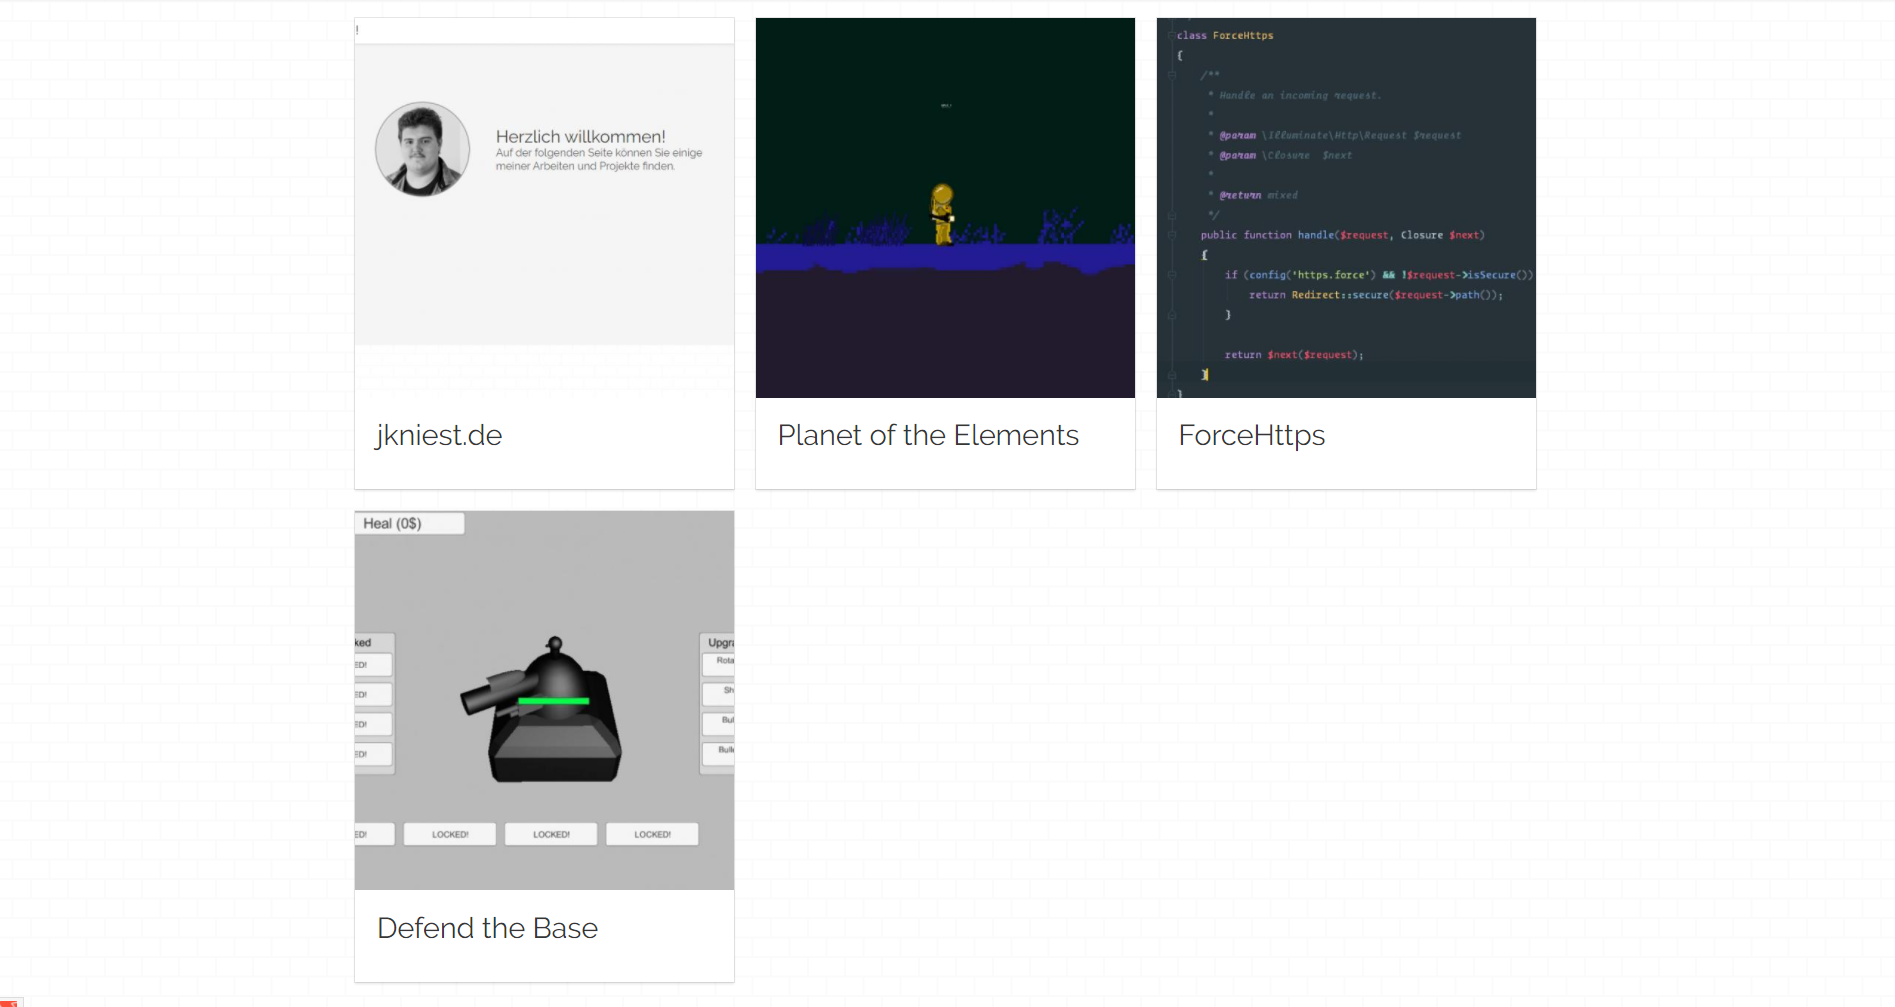
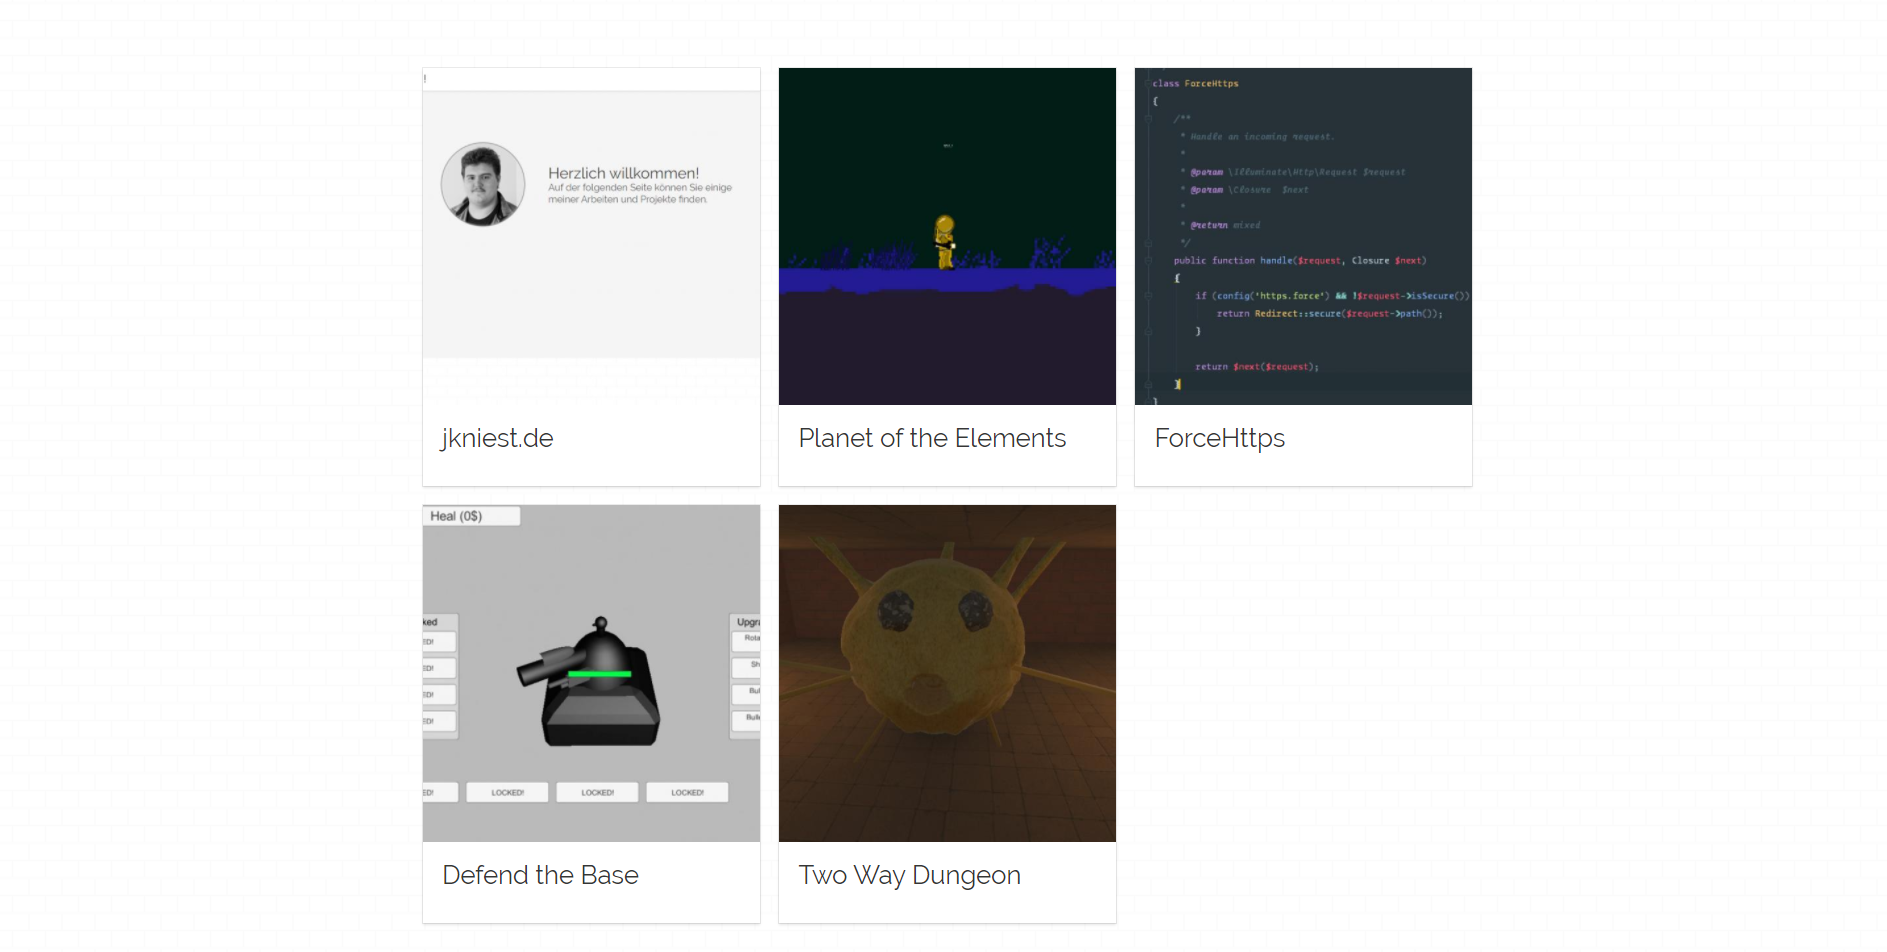
Added project 'Two Way Dungeon'

diff --git a/resources/views/projects/partials/de/TwoWayDungeon.blade.php b/resources/views/projects/partials/de/TwoWayDungeon.blade.php
@@ -1,0 +1,104 @@
+@php
+    /**
+     * Copyright (C) 2017 Jordan Kniest
+     *
+     * This program is free software: you can redistribute it and/or modify
+     * it under the terms of the GNU Affero General Public License as published by
+     * the Free Software Foundation, either version 3 of the License, or
+     * (at your option) any later version.
+     *
+     * This program is distributed in the hope that it will be useful,
+     * but WITHOUT ANY WARRANTY; without even the implied warranty of
+     * MERCHANTABILITY or FITNESS FOR A PARTICULAR PURPOSE.  See the
+     * GNU Affero General Public License for more details.
+     *
+     * You should have received a copy of the GNU Affero General Public License
+     * along with this program.  If not, see <http://www.gnu.org/licenses/>.
+     */
+@endphp
+
+
+<section>
+    <p>
+        Das Spiel "Two Way Dungeeon" wurde für die Ludum-Dare Competition entwickelt. Ziel, bei dem Ludum-Dare, ist es
+        ein Videospiel innerhalb von 48 Stunden zu erstellen, nach einem bestimmten Thema. Das Thema wird am Start der
+        48 Stunden veröffentlicht. Diesesmal war es: "Two button controls".
+    </p>
+    <br>
+    <p>
+        Die Welt, in der dieses Spiel spielt, wird von einem Kartoffel-Monster-König unterworfen. Der Spieler, ein
+        Soldat, hat sich das Ziel gesetzt, den Kartoffel-Monster-König zu besiegen und wieder Frieden in die Welt
+        zu bringen!
+    </p>
+</section>
+
+<hr class="m3t">
+
+<section class="m3t">
+    <h3 class="title is-3">Funktionen</h3>
+
+    <section class="m2t">
+
+        <h4 class="title is-4">Steuerung</h4>
+
+        <p>
+            Der Spieler kann das komplette Spiel mit gerade mal zwei Tasten bestehen. Die Tasten "Q" und "E". Mit
+            diesen Tasten kann der Spieler angreifen, ausweichen und sich fortbewegen.
+        </p>
+
+    </section>
+
+    <section class="m3t">
+
+        <h4 class="title is-4">Gegner</h4>
+
+        <p>
+            Auf dem Weg zum Kartoffel-Monster-Könfig begegnet man seinen Schergen, den normalen Kartoffel-Monstern.
+            Diese müssen besiegt werden, bevor man zum König vorschreiten kann.
+        </p>
+
+    </section>
+
+    <section class="m3t">
+
+        <h4 class="title is-4">Boss-Kampf</h4>
+
+        <p>
+            Am Ende des Spiels muss ein Boss besiegt werden. Dieser schießt Kartoffeln auf euch, denen ihr ausweichen
+            müsst.
+        </p>
+
+    </section>
+
+</section>
+
+<hr class="m3t">
+
+<section class="m3t">
+
+    <h3 class="title is-3">Entwicklung</h3>
+
+    <p>
+        Das Spiel wurde mit der <a href="https://unity3d.com">Unity3D Engine</a> entwickelt und ist auf
+        <a href="http://gamejolt.com/games/two-way-dungeon/113497">Gamejolt</a> für Windows herunterladbar.
+    </p>
+    <br>
+    <p>
+        Die komplette Programmierung und Modellierung wurde von mir, innerhalb von 30 Stunden, gemacht.
+    </p>
+
+</section>
+
+<hr class="m3t">
+
+<section class="m3t">
+
+    <h3 class="title is-3">Fazit</h3>
+
+    <p>
+        Die Grafiken und Modelle sind mir in diesem Spiel so gelungen, wie ich sie mir vorgestellt habe. Es gibt eine
+        Anleitung am Anfang und Bildschirme für Game-Over und Gewonnen-Szenarien. Insgesamt ist dies ein fertiges
+        Mini-Spiel.
+    </p>
+
+</section>

diff --git a/resources/views/projects/partials/en/TwoWayDungeon.blade.php b/resources/views/projects/partials/en/TwoWayDungeon.blade.php
@@ -1,0 +1,101 @@
+@php
+    /**
+     * Copyright (C) 2017 Jordan Kniest
+     *
+     * This program is free software: you can redistribute it and/or modify
+     * it under the terms of the GNU Affero General Public License as published by
+     * the Free Software Foundation, either version 3 of the License, or
+     * (at your option) any later version.
+     *
+     * This program is distributed in the hope that it will be useful,
+     * but WITHOUT ANY WARRANTY; without even the implied warranty of
+     * MERCHANTABILITY or FITNESS FOR A PARTICULAR PURPOSE.  See the
+     * GNU Affero General Public License for more details.
+     *
+     * You should have received a copy of the GNU Affero General Public License
+     * along with this program.  If not, see <http://www.gnu.org/licenses/>.
+     */
+@endphp
+
+
+<section>
+    <p>
+        The game "Two Way Dungeon" was developed for the Ludum-Dare competition. Goal at the Ludum-Dare is to create a
+        video game within 48 hours, according to a specific theme. The topic will be published at the start of the 48
+        hours. This time it was: "Two button controls".
+    </p>
+    <br>
+    <p>
+        The world in which this game plays is subjected by a Potato Monster King. The player, a soldier, has set
+        himself the goal of defeating the potato monster king and bringing peace back to the world!
+    </p>
+</section>
+
+<hr class="m3t">
+
+<section class="m3t">
+    <h3 class="title is-3">Feature</h3>
+
+    <section class="m2t">
+
+        <h4 class="title is-4">Controls</h4>
+
+        <p>
+            The player can complete the game with just two buttons. The buttons "Q" and "E". With these buttons the
+            player can attack, dodge and move.
+        </p>
+
+    </section>
+
+    <section class="m3t">
+
+        <h4 class="title is-4">Enemies</h4>
+
+        <p>
+            On the way to the potato monster king you meet his minions, the normal potato monsters. These must be
+            defeated before you can advance to the King.
+        </p>
+
+    </section>
+
+    <section class="m3t">
+
+        <h4 class="title is-4">Boss fight</h4>
+
+        <p>
+            At the end of the game, a boss must be defeated. This shoots potatoes on you, which you have to dodge.
+        </p>
+
+    </section>
+
+</section>
+
+<hr class="m3t">
+
+<section class="m3t">
+
+    <h3 class="title is-3">Development</h3>
+
+    <p>
+        The game was developed with the <a href="https://unity3d.com">Unity3D Engine</a>. The game can be downloaded on
+        <a href="http://gamejolt.com/games/two-way-dungeon/113497">Gamejolt</a> for windows.
+    </p>
+    <br>
+    <p>
+        The complete programmiung and modelling was done by me, within 30 hours.
+    </p>
+
+</section>
+
+<hr class="m3t">
+
+<section class="m3t">
+
+    <h3 class="title is-3">Conclusion</h3>
+
+    <p>
+        The graphics and models in this game have been as successful as I imagined. There is a tutorial at the
+        beginning and screens for game-over and winning scenarios. Overall, this is a finished mini-game.
+    </p>
+
+</section>

diff --git a/app/Projects/TwoWayDungeon.php b/app/Projects/TwoWayDungeon.php
@@ -1,0 +1,86 @@
+<?php
+
+namespace App\Projects;
+
+/**
+ * Two Way Dungeon is a small unity3d game that was made for the ludum dare competition
+ *
+ * Copyright (C) 2017 Jordan Kniest
+ *
+ * This program is free software: you can redistribute it and/or modify
+ * it under the terms of the GNU Affero General Public License as published by
+ * the Free Software Foundation, either version 3 of the License, or
+ * (at your option) any later version.
+ *
+ * This program is distributed in the hope that it will be useful,
+ * but WITHOUT ANY WARRANTY; without even the implied warranty of
+ * MERCHANTABILITY or FITNESS FOR A PARTICULAR PURPOSE.  See the
+ * GNU Affero General Public License for more details.
+ *
+ * You should have received a copy of the GNU Affero General Public License
+ * along with this program.  If not, see <http://www.gnu.org/licenses/>.
+ *
+ * @category Projects
+ * @package  JKniest.de
+ * @author   Jordan Kniest <contact@jkniest.de>
+ * @license  GNU AFFERO GENERAL PUBLIC LICENSE <http://www.gnu.org/licenses/agpl.txt>
+ * @link     https://jkniest.de
+ */
+class TwoWayDungeon extends Project
+{
+    /**
+     * The name
+     *
+     * @var string
+     */
+    protected $name = 'Two Way Dungeon';
+
+    /**
+     * The slug
+     *
+     * @var string
+     */
+    protected $slug = 'two-way-dungeon';
+
+    /**
+     * The meta tags
+     *
+     * @var array
+     */
+    protected $tags = ['unity3d', 'game', 'c#', 'ludum-dare'];
+
+    /**
+     * All related media files
+     *
+     * @var array
+     */
+    protected $media = [
+        'initial.jpg',
+        'enemies.jpg',
+        'boss.jpg'
+    ];
+
+    /**
+     * The cover media file (should be an image)
+     *
+     * @var string
+     */
+    protected $cover = 'boss.jpg';
+
+    /**
+     * The year when this project was created
+     *
+     * @var int
+     */
+    protected $year = 2015;
+
+    /**
+     * Additional meta information that is shown inside the project page
+     *
+     * @var array
+     */
+    protected $meta = [
+        'engine'    => 'Unity3D',
+        'languages' => 'C#'
+    ];
+}

diff --git a/resources/views/projects/partials/de/TwoWayDungeon_short.blade.php b/resources/views/projects/partials/de/TwoWayDungeon_short.blade.php
@@ -1,0 +1,21 @@
+@php
+    /**
+     * Copyright (C) 2017 Jordan Kniest
+     *
+     * This program is free software: you can redistribute it and/or modify
+     * it under the terms of the GNU Affero General Public License as published by
+     * the Free Software Foundation, either version 3 of the License, or
+     * (at your option) any later version.
+     *
+     * This program is distributed in the hope that it will be useful,
+     * but WITHOUT ANY WARRANTY; without even the implied warranty of
+     * MERCHANTABILITY or FITNESS FOR A PARTICULAR PURPOSE.  See the
+     * GNU Affero General Public License for more details.
+     *
+     * You should have received a copy of the GNU Affero General Public License
+     * along with this program.  If not, see <http://www.gnu.org/licenses/>.
+     */
+@endphp
+
+Two Way Dungeon ist ein Unity3D-Minispiel, das innerhalb von 30 Stunden für die Ludum-Dare Competition entwickelt
+wurde.

diff --git a/resources/views/projects/partials/en/TwoWayDungeon_short.blade.php b/resources/views/projects/partials/en/TwoWayDungeon_short.blade.php
@@ -1,0 +1,20 @@
+@php
+    /**
+     * Copyright (C) 2017 Jordan Kniest
+     *
+     * This program is free software: you can redistribute it and/or modify
+     * it under the terms of the GNU Affero General Public License as published by
+     * the Free Software Foundation, either version 3 of the License, or
+     * (at your option) any later version.
+     *
+     * This program is distributed in the hope that it will be useful,
+     * but WITHOUT ANY WARRANTY; without even the implied warranty of
+     * MERCHANTABILITY or FITNESS FOR A PARTICULAR PURPOSE.  See the
+     * GNU Affero General Public License for more details.
+     *
+     * You should have received a copy of the GNU Affero General Public License
+     * along with this program.  If not, see <http://www.gnu.org/licenses/>.
+     */
+@endphp
+
+Two Way Dungeon is a unity3d mini game. It was developed within 30 hours for the Ludum-Dare competition.

diff --git a/config/portfolio.php b/config/portfolio.php
@@ -38,7 +38,8 @@ return [
         \App\Projects\jkniestde::class,
         \App\Projects\PlanetoftheElements::class,
         \App\Projects\ForceHttps::class,
-        \App\Projects\DefendtheBase::class
+        \App\Projects\DefendtheBase::class,
+        \App\Projects\TwoWayDungeon::class
     ],
 
     /*
